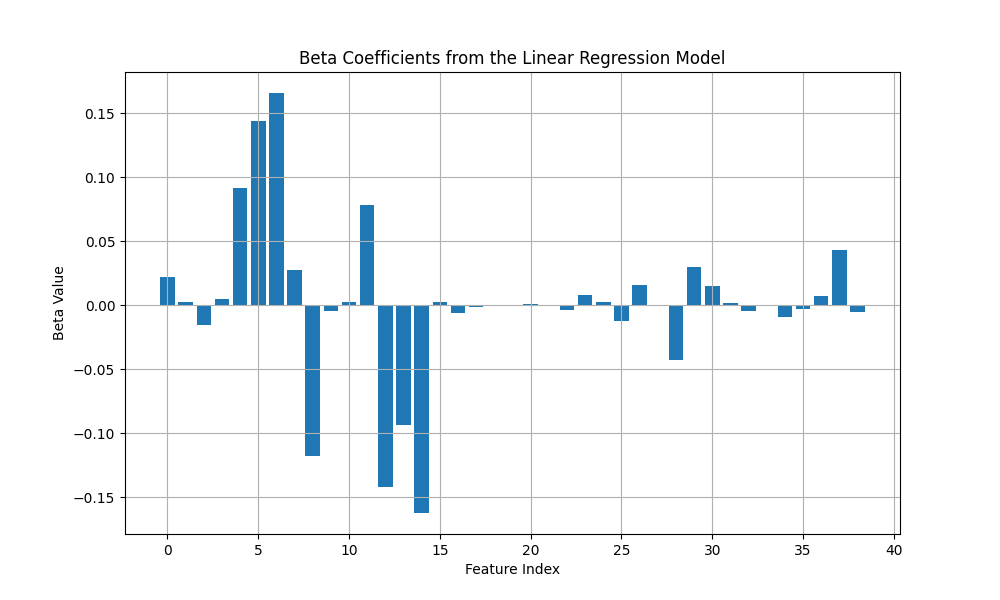
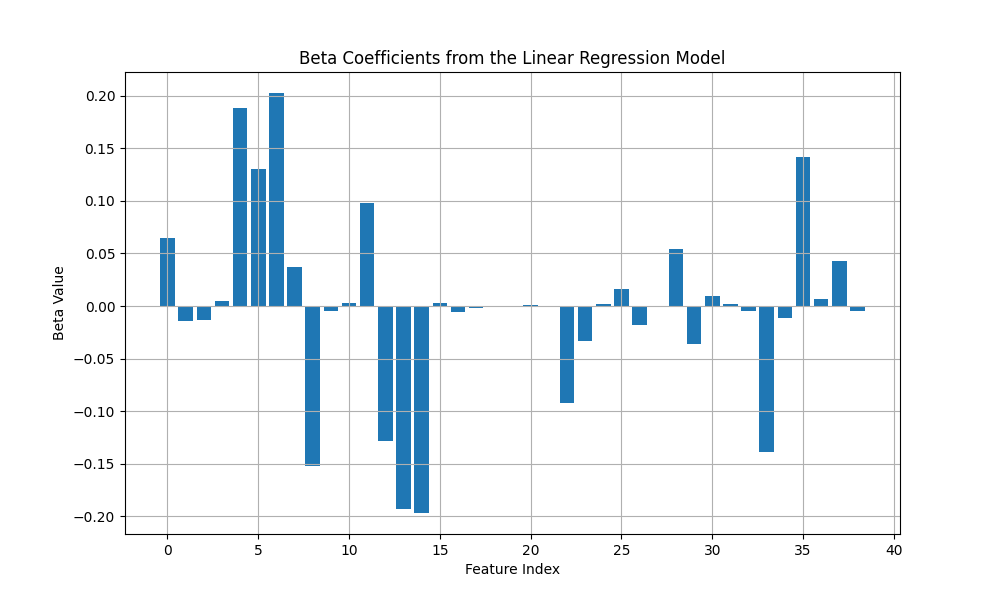
more plots and added tree based evaluations

diff --git a/analysis/cic_iot_2023.py b/analysis/cic_iot_2023.py
@@ -6,65 +6,15 @@ import torch
 import torch.nn as nn
 from sklearn.model_selection import train_test_split
 from sklearn.preprocessing import StandardScaler
-
-from plotting import plot_losses, plot_betas, plot_confusion_matrix
-
-from typing import List, Tuple, Optional
 from sklearn.metrics import confusion_matrix, classification_report
 
-def split_cic_data(cic_data: pd.DataFrame,
-                   train_frac: float,
-                   val_frac: float,
-                   test_frac: float) -> Tuple[torch.Tensor, ...]:
-    # Split features and target
-    #print(cic_data)
-    cic_data = cic_data.replace([np.inf, -np.inf], np.nan).dropna()
-    X = cic_data.drop(columns=['Label']).values
-    y = (cic_data['Label'].values != "BENIGN").astype(float).reshape(-1, 1)
+from typing import List, Tuple, Optional
 
-    scaler = StandardScaler()
-    X = scaler.fit_transform(X)
-    
-    # First split: training vs. temp (validation + test)
-    X_train, X_temp, y_train, y_temp = train_test_split(
-        X, y, test_size=(1 - train_frac), random_state=42)
-    
-    if val_frac == 0:
-        X_train = torch.tensor(X_train, dtype=torch.float32)
-        y_train = torch.tensor(y_train, dtype=torch.float32)
-        X_test = torch.tensor(X_temp, dtype=torch.float32)
-        y_test = torch.tensor(y_temp, dtype=torch.float32)
-        return X_train, X_test, y_train, y_test 
-    
-    # Calculate proportion of validation data in the temp data
-    val_ratio = val_frac / (val_frac + test_frac)
-
-    
-    # Second split: validation vs. test from temp
-    X_val, X_test, y_val, y_test = train_test_split(
-        X_temp, y_temp, test_size=(1 - val_ratio), random_state=42)
-    
-    X_train = torch.tensor(X_train, dtype=torch.float32)
-    y_train = torch.tensor(y_train, dtype=torch.float32)
-    X_val = torch.tensor(X_val, dtype=torch.float32)
-    y_val = torch.tensor(y_val, dtype=torch.float32)
-    X_test = torch.tensor(X_test, dtype=torch.float32)
-    y_test = torch.tensor(y_test, dtype=torch.float32)
-    
-    return X_train, X_val, X_test, y_train, y_val, y_test 
-
-class RegressionModel(nn.Module):
-    def __init__(self, x, y):
-        super(RegressionModel, self).__init__()
-        self.features = x.shape[-1]
-        self.linear = nn.Linear(self.features, 1)
-        
-    def forward(self, x):
-        return self.linear(x)
-    
-    def loss(self, y_pred, y):
-        return nn.functional.mse_loss(y_pred, y)
-
+from analysis.preprocessing import split_cic_data
+from analysis.plotting import plot_confusion_matrix, plot_feature_importance, plot_betas, plot_losses, plot_precision_recall_curve
+from models.linear_regression import RegressionModel
+from models.decision_trees import RandomForestAnalyzer, XGBoostRFAnalyzer
+from sklearn.metrics import precision_recall_curve, average_precision_score
 
 
 if __name__ == '__main__':
@@ -83,7 +33,7 @@ if __name__ == '__main__':
         model.train()
         optimizer.zero_grad()
         pred = model(x_train)
-        loss = model.loss(pred, y_train)
+        loss = model.weighted_mse_loss(pred, y_train, (1, 10))
         loss.backward()
 
         nn.utils.clip_grad_norm_(model.parameters(), max_norm=1.0)
@@ -91,24 +41,26 @@ if __name__ == '__main__':
         optimizer.step()
 
         if epoch % 100 == 0:
-            print(f'Epoch [{epoch}/{epochs}], Training Loss: {loss.item():.4f}')
-            train_losses.append(loss.item())
+            # print(f'Epoch [{epoch}/{epochs}], Training Loss: {loss.item():.4f}')
+            # train_losses.append(loss.item())
             
             model.eval()
             with torch.no_grad():
+                train_mse_loss = model.mse_loss(pred, y_train)
+                train_losses.append(train_mse_loss.item())
                 val_pred = model(x_val)
-                val_loss = model.loss(val_pred, y_val)
-                print(f'Epoch [{epoch}/{epochs}], Validation Loss: {val_loss.item():.4f}')
+                val_loss = model.mse_loss(val_pred, y_val)
+                print(f'Epoch [{epoch}/{epochs}], Training Loss: {train_mse_loss.item():.4f} Validation Loss: {val_loss.item():.4f}')
                 val_losses.append(val_loss.item())
     
     model.eval()
     with torch.no_grad():
         test_pred = model(x_test)
-        test_loss = model.loss(test_pred, y_test)
+        test_loss = model.mse_loss(test_pred, y_test)
         print(f'Test Loss: {test_loss.item():.4f}')
 
 
-    model_name: str = "lin_reg_epoch3000"    
+    model_name: str = "lin_reg_pos10x_epoch3000"    
     plot_losses(train_losses, val_losses, name=f'losses_{model_name}')
     plot_betas(model, name=f'betas_{model_name}')
     with torch.no_grad():
@@ -116,4 +68,11 @@ if __name__ == '__main__':
         predicted_labels = (test_pred >= 0.5).float()
 
     cm = confusion_matrix(y_test.cpu().numpy(), predicted_labels.cpu().numpy())
-    plot_confusion_matrix(cm, class_names=["Malicious", "Benign"], name="cm_lin_reg_epoch3000")
+    with torch.no_grad():
+        test_pred = model(x_test)
+        test_scores = test_pred.cpu().numpy()
+        y_true = y_test.cpu().numpy()
+
+    precision, recall, thresholds = precision_recall_curve(y_true, test_scores)
+    avg_precision = average_precision_score(y_true, test_scores)
+    plot_precision_recall_curve(precision, recall, avg_precision, name=f"pr_{model_name}")

diff --git a/models/decision_trees.py b/models/decision_trees.py
@@ -1,0 +1,96 @@
+from sklearn.ensemble import RandomForestClassifier
+from xgboost import XGBRFClassifier
+import pandas as pd
+from sklearn.metrics import confusion_matrix, classification_report
+
+from analysis.preprocessing import split_cic_data
+from analysis.plotting import plot_confusion_matrix, plot_feature_importance
+
+class RandomForestAnalyzer:
+    def __init__(self, data_path: str):
+        self.df = pd.read_csv(data_path)
+        self.feature_names = self.df.drop(columns=['Label']).columns.tolist()
+        self._prepare_data()
+        
+    def _prepare_data(self):
+        """Reuse your existing data pipeline with numpy conversion"""
+        splits = split_cic_data(self.df, 0.7, 0.15, 0.15)
+        self.X_train = splits[0].numpy()
+        self.X_test = splits[2].numpy() 
+        self.y_train = splits[3].numpy().ravel()
+        self.y_test = splits[5].numpy().ravel()
+        
+    def train(self):
+        """Random Forest with class weighting"""
+        self.model = RandomForestClassifier(
+            n_estimators=100,
+            class_weight={0: 1, 1: 10},
+            max_depth=8,
+            random_state=42
+        )
+        self.model.fit(self.X_train, self.y_train)
+        
+    def evaluate(self):
+        """Full model evaluation"""
+        preds = self.model.predict(self.X_test)
+        print("Random Forest Results:")
+        print(classification_report(self.y_test, preds))
+        plot_confusion_matrix(
+            confusion_matrix(self.y_test, preds),
+            class_names=["Benign", "Malicious"],
+            name="cm_rf"
+        )
+        
+    def plot_importance(self):
+        """Feature importance visualization"""
+        plot_feature_importance(
+            self.model.feature_importances_,
+            self.feature_names,
+            "rf_importance"
+        )
+
+class XGBoostRFAnalyzer:
+    def __init__(self, data_path: str):
+        self.df = pd.read_csv(data_path)
+        self.feature_names = self.df.drop(columns=['Label']).columns.tolist()
+        self._prepare_data()
+        
+    def _prepare_data(self):
+        """Identical data prep to RF class"""
+        splits = split_cic_data(self.df, 0.7, 0.15, 0.15)
+        self.X_train = splits[0].numpy()
+        self.X_test = splits[2].numpy()
+        self.y_train = splits[3].numpy().ravel()
+        self.y_test = splits[5].numpy().ravel()
+        
+    def train(self):
+        """XGBoost Random Forest with custom params"""
+        self.model = XGBRFClassifier(
+            n_estimators=100,
+            subsample=0.8,
+            colsample_bynode=0.3,
+            scale_pos_weight=10,
+            random_state=42,
+            use_label_encoder=False,
+            eval_metric='logloss'
+        )
+        self.model.fit(self.X_train, self.y_train)
+        
+    def evaluate(self):
+        """XGB-specific evaluation"""
+        preds = self.model.predict(self.X_test)
+        print("\nXGBoost RF Results:")
+        print(classification_report(self.y_test, preds))
+        plot_confusion_matrix(
+            confusion_matrix(self.y_test, preds),
+            class_names=["Benign", "Malicious"],
+            name="cm_xgbrf"
+        )
+        
+    def plot_importance(self):
+        """XGB-specific importance plot"""
+        plot_feature_importance(
+            self.model.feature_importances_,
+            self.feature_names,
+            "xgbrf_importance"
+        )

diff --git a/analysis/preprocessing.py b/analysis/preprocessing.py
@@ -1,0 +1,52 @@
+import pandas as pd
+import numpy as np
+import torch
+from sklearn.model_selection import train_test_split
+from sklearn.preprocessing import StandardScaler
+
+from typing import List, Tuple, Optional
+
+from typing import Tuple
+
+
+def split_cic_data(cic_data: pd.DataFrame,
+                   train_frac: float,
+                   val_frac: float,
+                   test_frac: float) -> Tuple[torch.Tensor, ...]:
+    # Split features and target
+    #print(cic_data)
+    cic_data = cic_data.replace([np.inf, -np.inf], np.nan).dropna()
+    X = cic_data.drop(columns=['Label']).values
+    y = (cic_data['Label'].values != "BENIGN").astype(float).reshape(-1, 1)
+
+    scaler = StandardScaler()
+    X = scaler.fit_transform(X)
+    
+    # First split: training vs. temp (validation + test)
+    X_train, X_temp, y_train, y_temp = train_test_split(
+        X, y, test_size=(1 - train_frac), random_state=42)
+    
+    if val_frac == 0:
+        X_train = torch.tensor(X_train, dtype=torch.float32)
+        y_train = torch.tensor(y_train, dtype=torch.float32)
+        X_test = torch.tensor(X_temp, dtype=torch.float32)
+        y_test = torch.tensor(y_temp, dtype=torch.float32)
+        return X_train, X_test, y_train, y_test 
+    
+    # Calculate proportion of validation data in the temp data
+    val_ratio = val_frac / (val_frac + test_frac)
+
+    
+    # Second split: validation vs. test from temp
+    X_val, X_test, y_val, y_test = train_test_split(
+        X_temp, y_temp, test_size=(1 - val_ratio), random_state=42)
+    
+    X_train = torch.tensor(X_train, dtype=torch.float32)
+    y_train = torch.tensor(y_train, dtype=torch.float32)
+    X_val = torch.tensor(X_val, dtype=torch.float32)
+    y_val = torch.tensor(y_val, dtype=torch.float32)
+    X_test = torch.tensor(X_test, dtype=torch.float32)
+    y_test = torch.tensor(y_test, dtype=torch.float32)
+    
+    return X_train, X_val, X_test, y_train, y_val, y_test 
+

diff --git a/analysis/plotting.py b/analysis/plotting.py
@@ -30,7 +30,7 @@ def plot_confusion_matrix(cm, class_names: Optional[List[str]] = None, name: Opt
     plt.ylabel('True Labels')
     plt.title('Confusion Matrix')
     if name is not None:
-        plt.savefig(f"plots/{name}_confusion_matrix.png")
+        plt.savefig(f"plots/{name}.png")
     else:
         plt.show()
 
@@ -44,6 +44,35 @@ def plot_betas(model, name: Optional[str] = None):
     plt.title('Beta Coefficients from the Linear Regression Model')
     plt.grid(True)
     if name is not None:
-        plt.savefig(f"plots/{name}_betas.png")
+        plt.savefig(f"plots/{name}.png")
+    else:
+        plt.show()
+
+def plot_feature_importance(importances: np.ndarray, 
+                          feature_names: List[str], 
+                          name: str,
+                          top_n: int = 20):
+    plt.figure(figsize=(10, 6))
+    indices = np.argsort(importances)[-top_n:]
+    plt.title(f'Feature Importance - {name}')
+    plt.barh(range(len(indices)), importances[indices], align='center')
+    plt.yticks(range(len(indices)), [feature_names[i] for i in indices])
+    plt.xlabel('Importance Score')
+    plt.tight_layout()
+    if name is not None:
+        plt.savefig(f'plots/{name}.png')
+    else:
+        plt.show()
+ 
+def plot_precision_recall_curve(precision: List[float], recall: List[float], name: Optional[str] = None):
+    plt.figure(figsize=(10, 6))
+    plt.step(recall, precision, where='post', label='Precision-Recall Curve')
+    plt.xlabel('Recall')
+    plt.ylabel('Precision')
+    plt.title('Precision-Recall Curve')
+    plt.legend()
+    plt.grid(True)
+    if name is not None:
+        plt.savefig(f"plots/{name}.png")
     else:
         plt.show()

diff --git a/models/linear_regression.py b/models/linear_regression.py
@@ -1,0 +1,34 @@
+import torch
+import torch.nn as nn
+
+from typing import Tuple
+
+class RegressionModel(nn.Module):
+    def __init__(self, x, y):
+        super(RegressionModel, self).__init__()
+        self.features = x.shape[-1]
+        self.linear = nn.Linear(self.features, 1)
+        
+    def forward(self, x):
+        return self.linear(x)
+    
+    def mse_loss(self, y_pred, y):
+        return nn.functional.mse_loss(y_pred, y)
+    
+    def weighted_mse_loss(self, y_pred, y, weights: Tuple[float, float]):
+        pos_class_weight, neg_class_weight = weights
+        diff = y_pred - y
+        squared_error = diff ** 2
+        weights_tensor = torch.where(y == 1.0, pos_class_weight, neg_class_weight)
+        loss = torch.mean(weights_tensor * squared_error)
+        return loss
+    
+    def lasso_mse_loss(self, y_pred, y, lam: float):
+        mse_loss = nn.functional.mse_loss(y_pred, y)
+        l1_penalty = lam * torch.sum(torch.abs(self.linear.weight))
+        return mse_loss + l1_penalty
+    
+    def ridge_mse_loss(self, y_pred, y, lam: float):
+        mse_loss = nn.functional.mse_loss(y_pred, y)
+        l2_penalty = lam * torch.sum(self.linear.weight ** 2)
+        return mse_loss + l2_penalty
